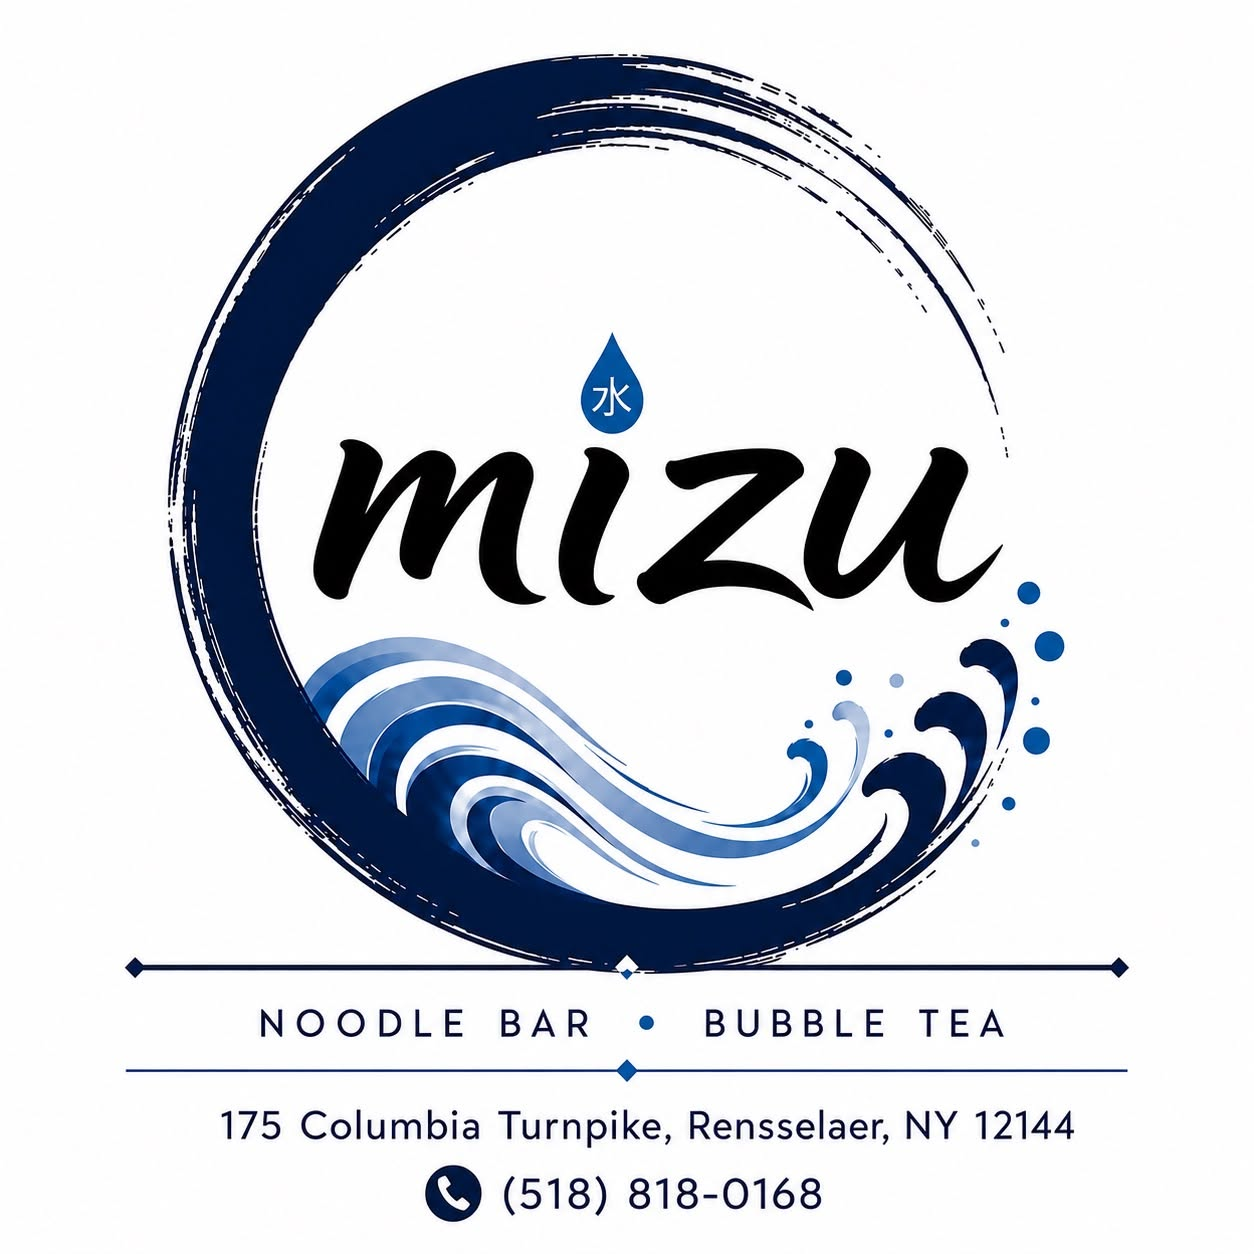
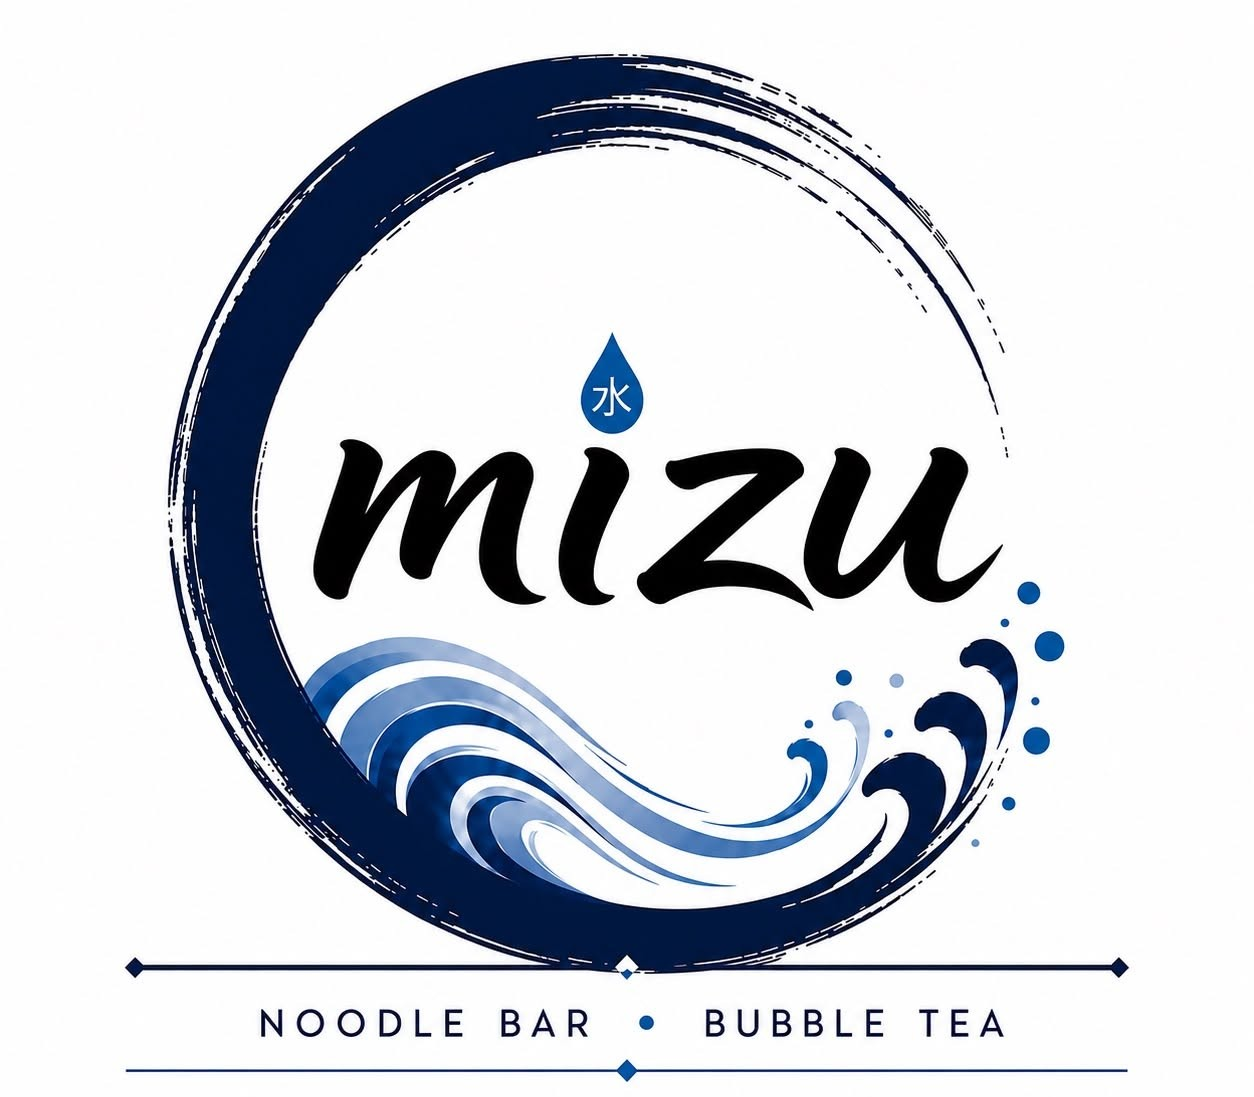
Breaking address and phone number out of image

Changed region(s): [[0.0933, 0.031, 0.9019, 0.9918]]

diff --git a/src/app/home-component/home-component.spec.ts b/src/app/home-component/home-component.spec.ts
@@ -18,4 +18,16 @@ describe('HomeComponent', () => {
   it('should create', () => {
     expect(component).toBeTruthy();
   });
+
+  it('should show the address and phone number between the image and hours', () => {
+    const content = fixture.nativeElement as HTMLElement;
+    const image = content.querySelector('.home-image-frame');
+    const contact = content.querySelector('.contact-block');
+    const hours = content.querySelector('.hours-block');
+
+    expect(contact?.textContent).toContain('175 Columbia Turnpike, Rensselaer, NY 12144');
+    expect(contact?.textContent).toContain('(518) 818-0168');
+    expect(image?.nextElementSibling).toBe(contact);
+    expect(contact?.nextElementSibling).toBe(hours);
+  });
 });

diff --git a/src/app/home-component/home-component.css b/src/app/home-component/home-component.css
@@ -35,14 +35,24 @@
   object-fit: contain;
 }
 
+.contact-block {
+  flex: 0 0 auto;
+  width: 100%;
+  box-sizing: border-box;
+  text-align: center;
+  font-size: calc(var(--shell-width) * 0.04);
+  line-height: 1.5;
+}
+
 .hours-block {
   flex: 0 0 auto;
   width: 100%;
   box-sizing: border-box;
   padding-top: 2vmin;
+  padding-bottom: 2vmin;
   display: flex;
   justify-content: center;
-  font-size: calc(var(--shell-width) * 0.05);
+  font-size: calc(var(--shell-width) * 0.04);
   line-height: 1.5;
 }
 

diff --git a/src/app/home-component/home-component.html b/src/app/home-component/home-component.html
@@ -3,6 +3,12 @@
 		<img src="/images/home.jpg" alt="Mizu home" class="home-image" />
 	</div>
 
+	<section class="contact-block" aria-label="Contact information">
+		<div>175 Columbia Turnpike</div>
+		<div>Rensselaer, NY 12144</div>
+		<div>(518) 818-0168</div>
+	</section>
+
 	<section class="hours-block" aria-labelledby="hours-title">
 		<div class="hours-content">
 			<div id="hours-title" class="title-font hours-title">Hours</div>
